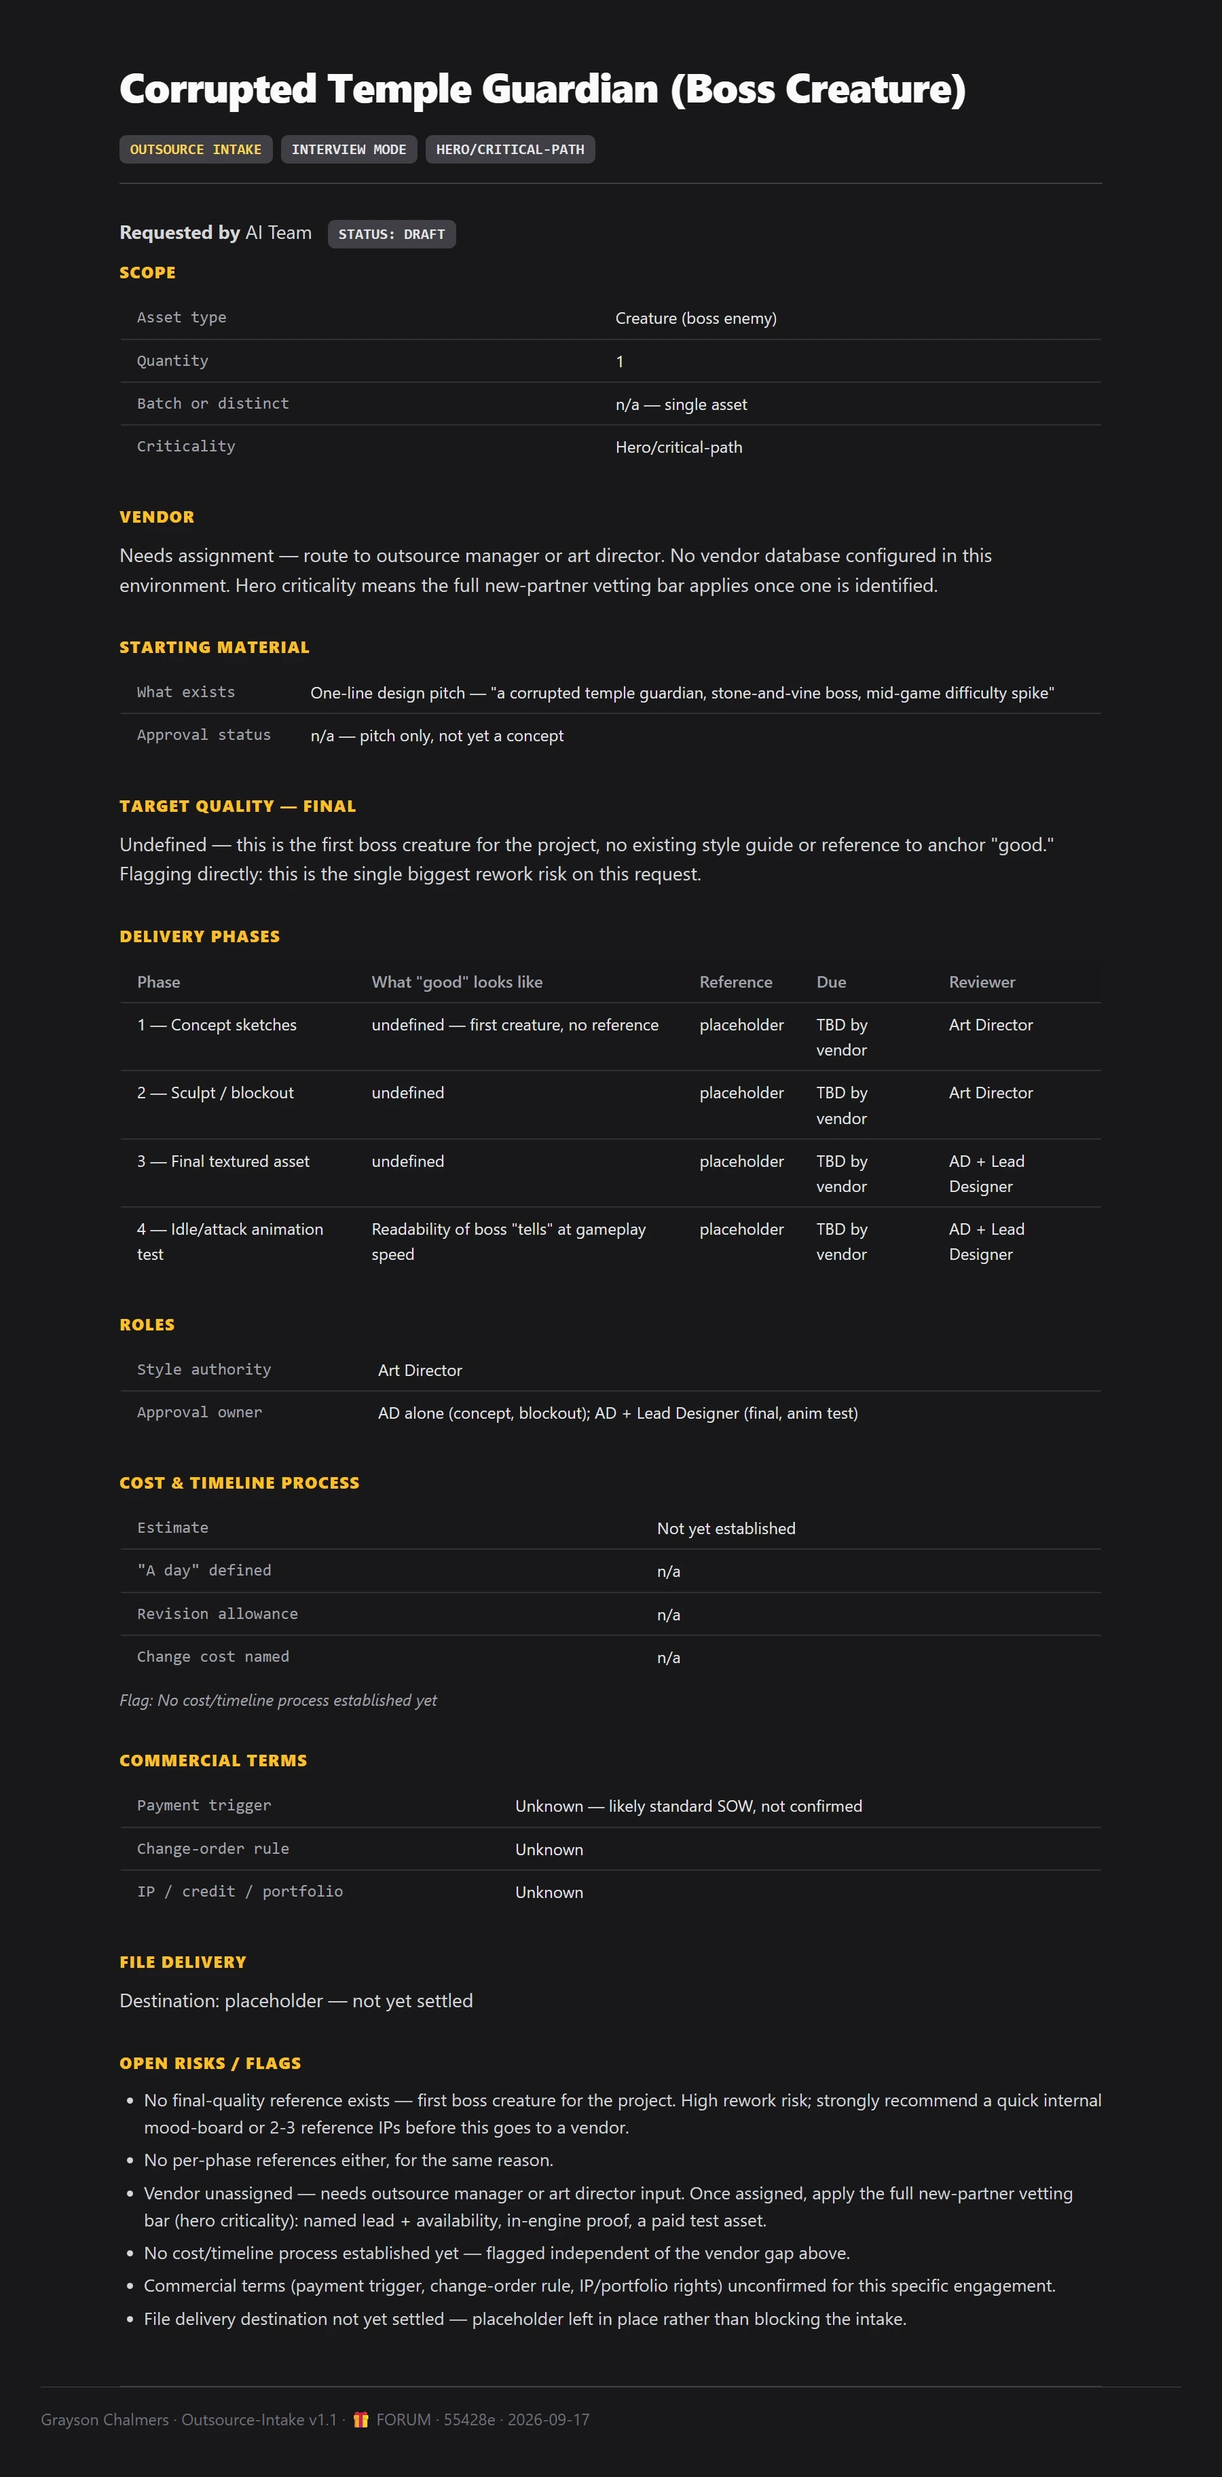
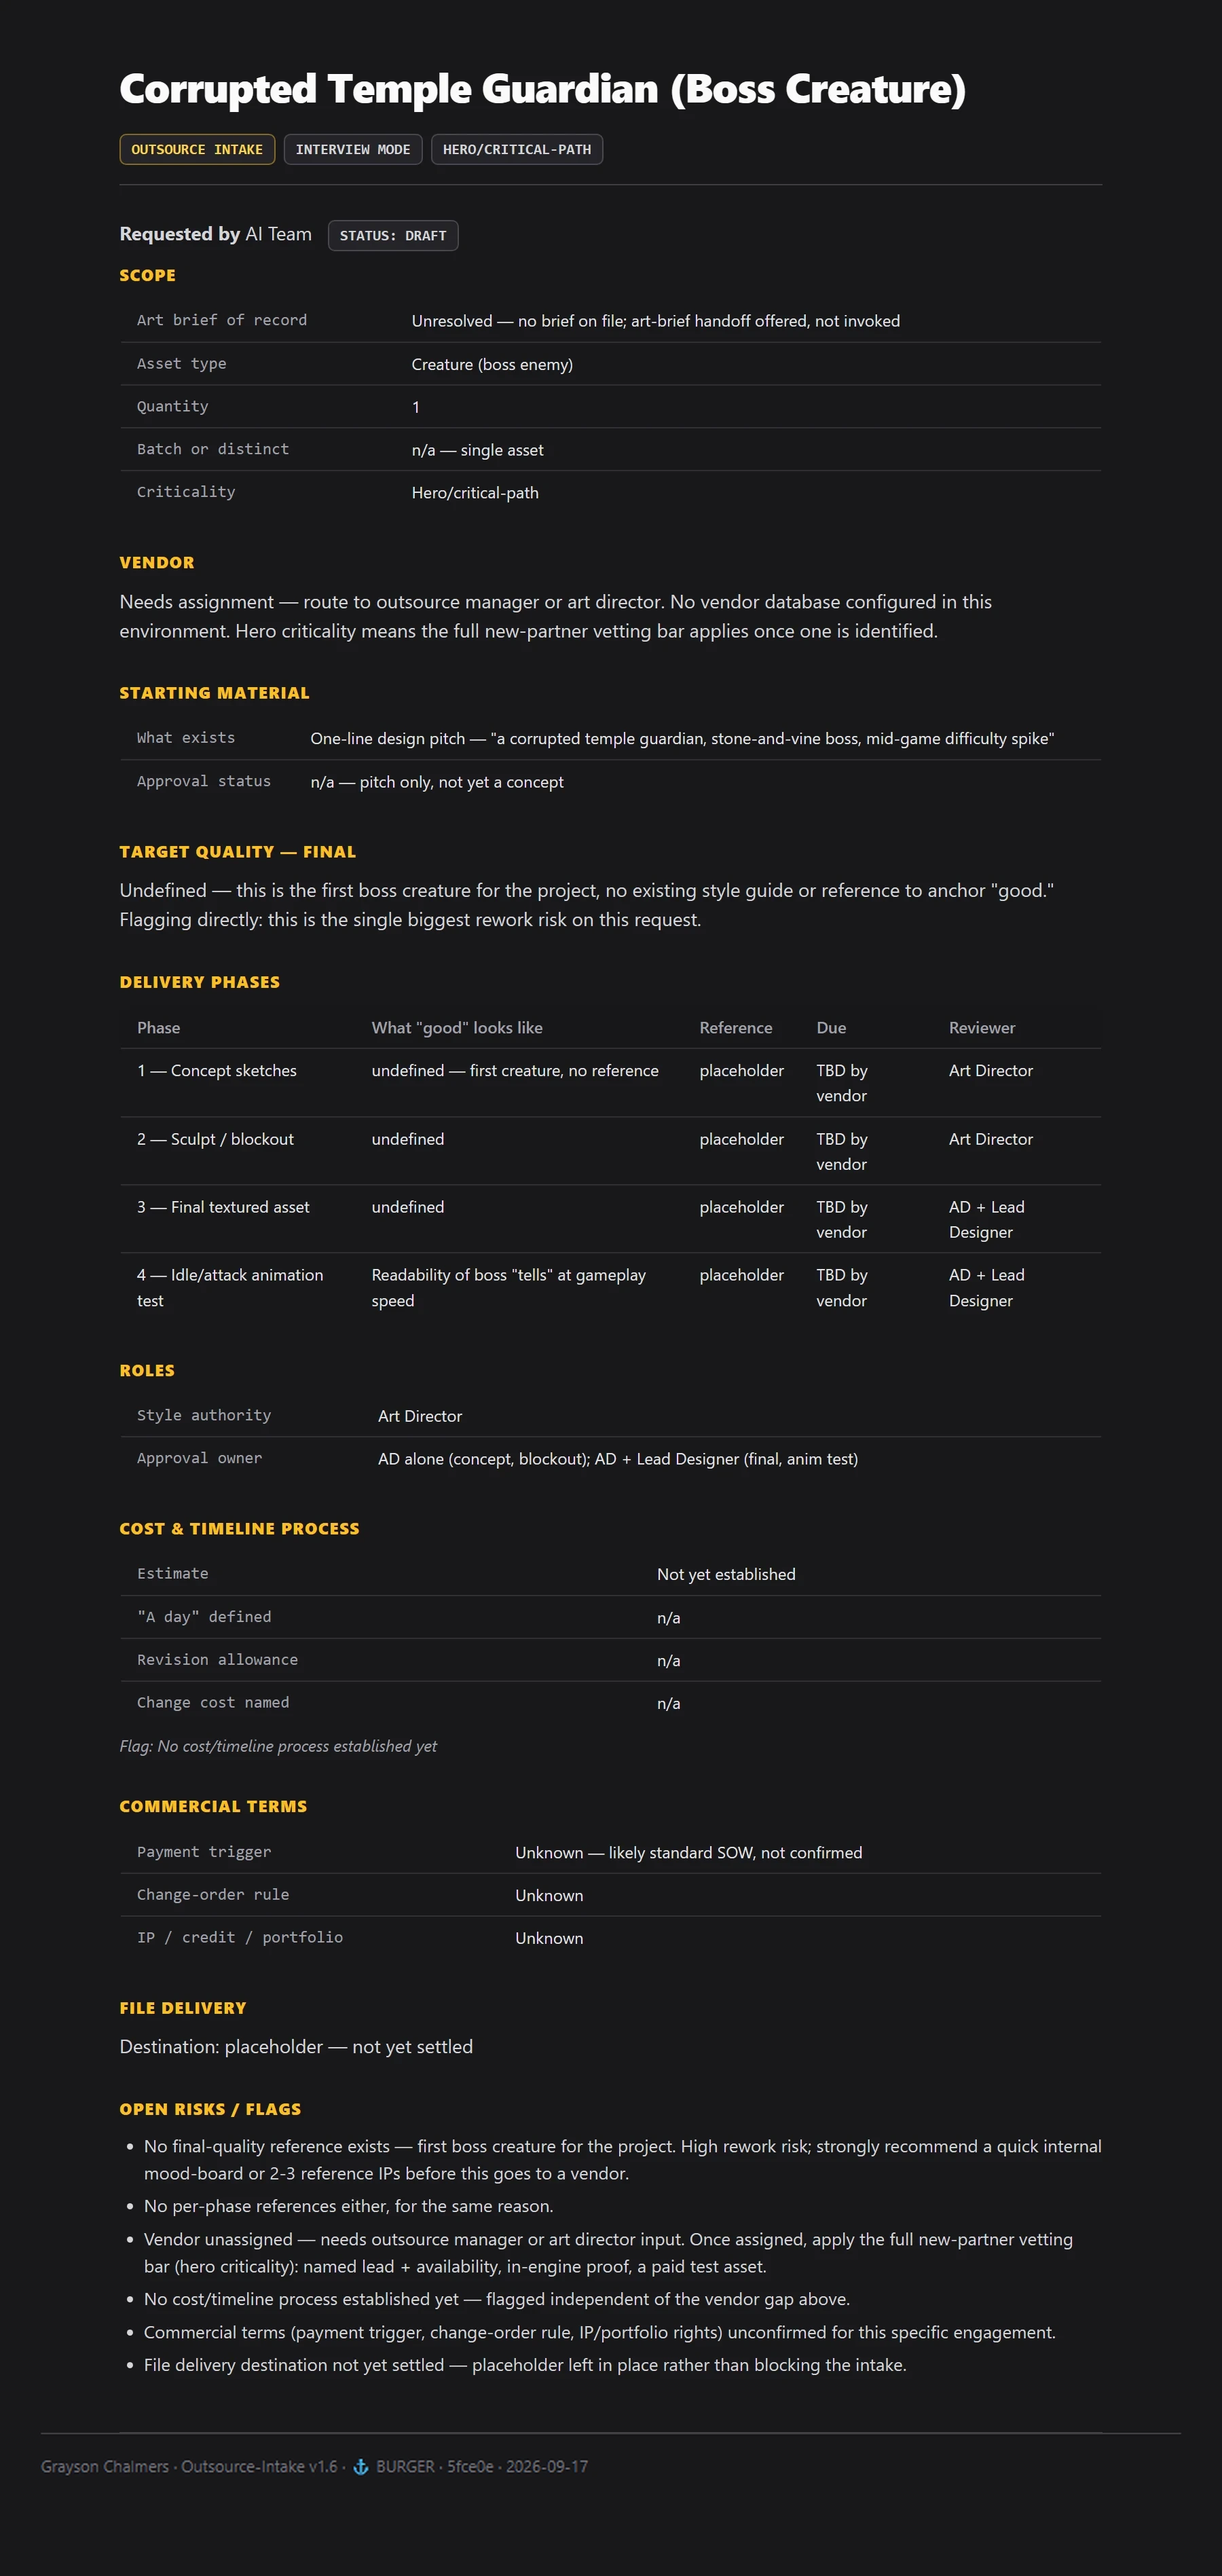
Publish selected skills

diff --git a/README.md b/README.md
@@ -1383,6 +1383,7 @@ Commercial terms: covered by existing vendor relationship, not re-litigated
 **Requested by:** Sarah  |  **Date:** [demo date]  |  **Status:** Draft
 
 ## Scope
+- Art brief of record: **Unresolved — no brief on file** [not supplied]; full art-direction treatment available via the art-brief handoff, offered not invoked.
 - Asset type(s): UI / Icon
 - Quantity, and what counts as one: 12 individual icons
 - Batch (shared style) or distinct assets: Batch — shared style with
@@ -1570,6 +1571,7 @@ Commercial terms: unknown — likely standard SOW, not confirmed
 **Requested by:** AI Team  |  **Date:** [demo date]  |  **Status:** Draft
 
 ## Scope
+- Art brief of record: **Unresolved — no brief on file** [not supplied]; full art-direction treatment available via the art-brief handoff, offered not invoked.
 - Asset type(s): Creature (boss enemy)
 - Quantity, and what counts as one: 1 — a fully textured, rigged,
   animation-tested boss creature
@@ -1739,6 +1741,7 @@ Commercial terms: not established (waiting on a vendor to exist)
 **Requested by:** [demo requester]  |  **Date:** [demo date]  |  **Status:** Draft
 
 ## Scope
+- Art brief of record: **Unresolved — no brief on file** [not supplied]; full art-direction treatment available via the art-brief handoff, offered not invoked.
 - Asset type(s): Creature
 - Quantity, and what counts as one: 3 — Basic, Elite, Alpha, each a
   complete sculpted+textured creature variant

diff --git a/Outsource-Intake/examples/01-extraction-icon-batch.md b/Outsource-Intake/examples/01-extraction-icon-batch.md
@@ -75,6 +75,7 @@ Commercial terms: covered by existing vendor relationship, not re-litigated
 **Requested by:** Sarah  |  **Date:** [demo date]  |  **Status:** Draft
 
 ## Scope
+- Art brief of record: **Unresolved — no brief on file** [not supplied]; full art-direction treatment available via the art-brief handoff, offered not invoked.
 - Asset type(s): UI / Icon
 - Quantity, and what counts as one: 12 individual icons
 - Batch (shared style) or distinct assets: Batch — shared style with

diff --git a/Outsource-Intake/examples/03-batch-creature-variants.md b/Outsource-Intake/examples/03-batch-creature-variants.md
@@ -91,6 +91,7 @@ Commercial terms: not established (waiting on a vendor to exist)
 **Requested by:** [demo requester]  |  **Date:** [demo date]  |  **Status:** Draft
 
 ## Scope
+- Art brief of record: **Unresolved — no brief on file** [not supplied]; full art-direction treatment available via the art-brief handoff, offered not invoked.
 - Asset type(s): Creature
 - Quantity, and what counts as one: 3 — Basic, Elite, Alpha, each a
   complete sculpted+textured creature variant

diff --git a/Outsource-Intake/examples/02-interview-boss-creature.md b/Outsource-Intake/examples/02-interview-boss-creature.md
@@ -126,6 +126,7 @@ Commercial terms: unknown — likely standard SOW, not confirmed
 **Requested by:** AI Team  |  **Date:** [demo date]  |  **Status:** Draft
 
 ## Scope
+- Art brief of record: **Unresolved — no brief on file** [not supplied]; full art-direction treatment available via the art-brief handoff, offered not invoked.
 - Asset type(s): Creature (boss enemy)
 - Quantity, and what counts as one: 1 — a fully textured, rigged,
   animation-tested boss creature
